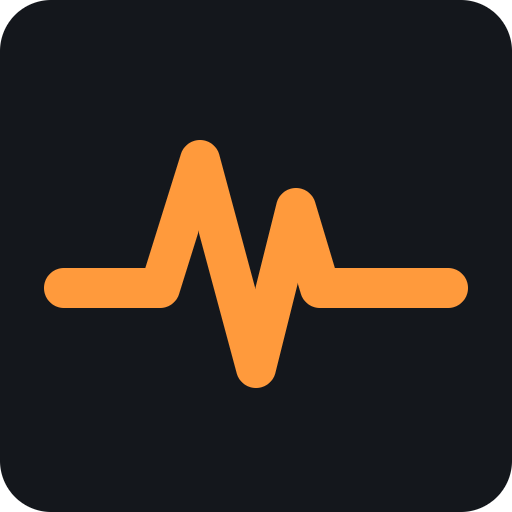
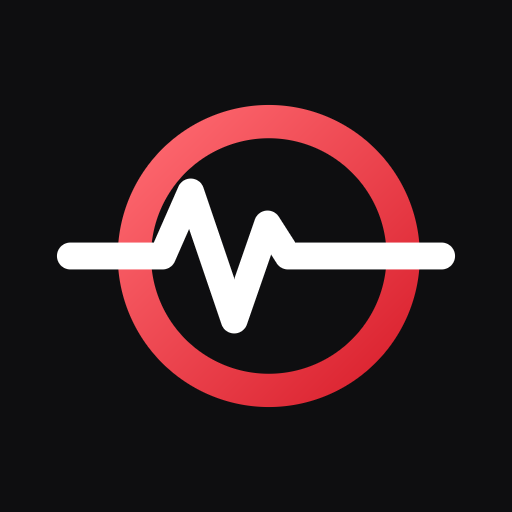
Brand colour: red on black instead of orange
Red brand token with white button text, blacker page and surfaces, red glow,
logo, favicon and PWA icons regenerated. CLAUDE.md design notes updated.

diff --git a/src/index.css b/src/index.css
@@ -2,23 +2,23 @@
 
 /*
  * NadiSense "instrument" design: deep ink background, layered graphite surfaces with a faint top
- * highlight, saffron brand, and colour that always means something:
- *   saffron = brand / primary action, green = live & trusted, red = screening flag only,
+ * highlight, red brand on black, and colour that always means something:
+ *   red = brand / primary action, green = live & trusted, filled red with a warning sign = screening flag,
  *   amber = hold still / change, cyan = SpO₂, coral = heart, violet = rhythm, gold = temperature.
  */
 :root {
-  --bg: #08090b;
-  --panel: #111317;
-  --panel-2: #171a1f;
-  --panel-3: #1d2127;
+  --bg: #050506;
+  --panel: #101113;
+  --panel-2: #16171a;
+  --panel-3: #1c1d21;
   --line: rgba(255, 255, 255, 0.07);
   --line-strong: rgba(255, 255, 255, 0.13);
   --fg: #eef0f3;
   --label: #9aa3b2;
   --muted: #6b7380;
-  --brand: #ff9a3c;
-  --brand-2: #ffb86b;
-  --brand-ink: #1a0f02;
+  --brand: #f23a45;
+  --brand-2: #ff6b72;
+  --brand-ink: #ffffff;
   --signal: #3ddc97;
   --hr: #ff5d6c;
   --spo2: #3ec6ff;
@@ -72,10 +72,9 @@ body {
   -webkit-font-smoothing: antialiased;
   -webkit-tap-highlight-color: transparent;
   min-height: 100dvh;
-  /* A faint warm glow at the top gives the page depth without decoration. */
+  /* A faint red glow at the top gives the page depth without decoration. */
   background-image:
-    radial-gradient(1200px 520px at 50% -220px, rgba(255, 154, 60, 0.09), transparent 70%),
-    radial-gradient(900px 400px at 100% 0, rgba(62, 198, 255, 0.04), transparent 70%);
+    radial-gradient(1200px 520px at 50% -220px, rgba(242, 58, 69, 0.08), transparent 70%);
   background-repeat: no-repeat;
 }
 
@@ -109,11 +108,11 @@ html:not([lang="en"]) [class*="tracking-"]:not(.keep-tracking) {
 }
 
 .btn-primary {
-  background: linear-gradient(180deg, var(--brand-2), var(--brand));
+  background: linear-gradient(180deg, #ec3541, #cf1f2c);
   color: var(--brand-ink);
   box-shadow:
-    inset 0 1px 0 rgba(255, 255, 255, 0.35),
-    0 6px 20px -8px rgba(255, 154, 60, 0.6);
+    inset 0 1px 0 rgba(255, 255, 255, 0.22),
+    0 6px 20px -8px rgba(226, 32, 46, 0.55);
 }
 .btn-primary:hover:not(:disabled) {
   filter: brightness(1.05);

diff --git a/src/components/Masthead.tsx b/src/components/Masthead.tsx
@@ -22,7 +22,7 @@ export function Masthead({ title, subtitle, active }: { title?: ReactNode; subti
     <header>
       <BrandBar />
       <div className="surface relative mt-2 overflow-hidden rounded-3xl">
-        <div aria-hidden className="pointer-events-none absolute inset-0 bg-[radial-gradient(420px_220px_at_50%_78%,rgba(255,154,60,0.22),transparent_70%)]" />
+        <div aria-hidden className="pointer-events-none absolute inset-0 bg-[radial-gradient(420px_220px_at_50%_78%,rgba(242,58,69,0.20),transparent_70%)]" />
         <div aria-hidden className="pointer-events-none absolute inset-x-0 top-0 h-px bg-gradient-to-r from-transparent via-brand/50 to-transparent" />
         <div className="relative px-6 pt-6">
           <h1 className="text-[26px] leading-[1.15] font-semibold tracking-[-0.02em] text-balance">{title ?? t('app.tagline')}</h1>

diff --git a/src/components/Logo.tsx b/src/components/Logo.tsx
@@ -7,11 +7,11 @@ export function LogoMark({ className = 'size-8' }: { className?: string }) {
     <svg aria-hidden viewBox="0 0 40 40" className={className}>
       <defs>
         <linearGradient id="nadi-mark" x1="0" y1="0" x2="1" y2="1">
-          <stop offset="0" stopColor="#ffc27a" />
-          <stop offset="1" stopColor="#ff8a2a" />
+          <stop offset="0" stopColor="#ff6b72" />
+          <stop offset="1" stopColor="#d91f2c" />
         </linearGradient>
       </defs>
-      <rect width="40" height="40" rx="11" fill="#14171c" />
+      <rect width="40" height="40" rx="11" fill="#0e0e10" />
       <rect x="0.5" y="0.5" width="39" height="39" rx="10.5" fill="none" stroke="rgba(255,255,255,0.08)" />
       <circle cx="21" cy="20" r="10.5" fill="none" stroke="url(#nadi-mark)" strokeWidth="2.6" />
       <path

diff --git a/src/App.tsx b/src/App.tsx
@@ -201,13 +201,13 @@ const TAB_ICON: Record<string, (p: { className?: string }) => ReactNode> = {
   '/settings': GearIcon,
 };
 
-/** Phone navigation: standard bottom bar; the active tab is saffron. */
+/** Phone navigation: standard bottom bar; the active tab is red. */
 function TabBar({ route }: { route: Route }) {
   const { t } = useI18n();
   return (
     <nav
       aria-label={t('nav.main')}
-      className="fixed inset-x-0 bottom-0 z-20 border-t border-line bg-[#0d0f12]/95 pb-[env(safe-area-inset-bottom)] backdrop-blur-xl lg:hidden"
+      className="fixed inset-x-0 bottom-0 z-20 border-t border-line bg-[#0a0a0b]/95 pb-[env(safe-area-inset-bottom)] backdrop-blur-xl lg:hidden"
     >
       <ul className="mx-auto flex max-w-xl">
         {NAV.map(({ route: r, label }) => {

diff --git a/src/screens/Dashboard.tsx b/src/screens/Dashboard.tsx
@@ -248,7 +248,7 @@ function Dial({ hr, beat, dim }: { hr: number | null; beat: number; dim: boolean
       <svg viewBox={`0 0 ${size} ${size}`} className="absolute inset-0 size-full" aria-hidden>
         <defs>
           <linearGradient id="dial-lit" x1="0" y1="1" x2="1" y2="0">
-            <stop offset="0" stopColor="#ff9a5c" />
+            <stop offset="0" stopColor="#ff8a7a" />
             <stop offset="1" stopColor="#ff4d6d" />
           </linearGradient>
           <radialGradient id="dial-face">

diff --git a/index.html b/index.html
@@ -3,7 +3,7 @@
   <head>
     <meta charset="UTF-8" />
     <meta name="viewport" content="width=device-width, initial-scale=1, viewport-fit=cover" />
-    <meta name="theme-color" content="#08090b" />
+    <meta name="theme-color" content="#050506" />
     <meta name="description" content="NadiSense companion app: continuous pulse screening from the NadiSense ring." />
     <link rel="icon" type="image/svg+xml" href="/favicon.svg" />
     <link rel="apple-touch-icon" href="/apple-touch-icon.png" />

diff --git a/vite.config.ts b/vite.config.ts
@@ -22,8 +22,8 @@ export default defineConfig({
         scope: '/',
         display: 'standalone',
         orientation: 'portrait',
-        background_color: '#08090b',
-        theme_color: '#08090b',
+        background_color: '#050506',
+        theme_color: '#050506',
         categories: ['health', 'medical'],
         icons: [
           { src: 'pwa-192.png', sizes: '192x192', type: 'image/png' },

diff --git a/src/lib/chartColors.ts b/src/lib/chartColors.ts
@@ -12,5 +12,5 @@ export const CHART = {
   rhythm: '#a78bfa',
   spo2: '#3ec6ff',
   hr: '#ff5d6c',
-  brand: '#ff9a3c',
+  brand: '#f23a45',
 } as const;

diff --git a/CLAUDE.md b/CLAUDE.md
@@ -77,15 +77,15 @@ src/cloud/         optional Firestore backup + doctor links
   CSV export (samples and accuracy table) through the share sheet.
 
 ## Design direction (premium medical instrument, dark)
-- Dark only. Tokens in `src/index.css`: ink page `#08090b` with a faint warm glow at the top;
-  raised graphite surfaces (`.surface`: `#111317`, hairline `rgba(255,255,255,.07)`, top highlight,
+- Dark only. Tokens in `src/index.css`: black page `#050506` with a faint red glow at the top;
+  raised graphite surfaces (`.surface`: `#101113`, hairline `rgba(255,255,255,.07)`, top highlight,
   soft depth) with `rounded-2xl` cards and `rounded-3xl` heroes. Text `#eef0f3` / `#9aa3b2` / `#6b7380`.
-- Colour means something: saffron `#ff9a3c` (`brand`) = brand and primary action (`.btn-primary`,
-  active tab, selection); green `#3ddc97` (`signal`) = live / trusted; red `#ff4d5e` (`alert`) =
+- Colour means something: red `#f23a45` (`brand`, white text on buttons) = brand and primary action (`.btn-primary`,
+  active tab, selection); green `#3ddc97` (`signal`) = live / trusted; brighter red `#ff4d5e` (`alert`) =
   screening flags only (filled `<Tag tone="alert">` with ⚠); amber = hold still; coral heart,
   cyan SpO₂, gold temperature, violet rhythm.
-- Type: IBM Plex Sans (+ Plex Sans Devanagari, Noto for other scripts); IBM Plex Mono for the small
-  uppercase `.label`s, units and timestamps. Big figures are semibold with tabular numerals.
+- Type: IBM Plex Sans (+ Plex Sans Devanagari, Noto for other scripts). Small `.label`s are plain
+  sentence case; IBM Plex Mono only for raw data. Big figures are semibold with tabular numerals.
 - Brand: `components/Logo.tsx` (ring + pulse mark, "Nadi**Sense**" wordmark). No emoji, no generic
   stock icons; line icons in `components/icons.tsx`.
 - Pulse (`Dashboard.tsx`): hero card with status pill, the heart-rate dial (ticks lit to the HR,
@@ -95,7 +95,7 @@ src/cloud/         optional Firestore backup + doctor links
 - Sign-in and pairing: wordmark bar, then a hero card (large headline, ring on a lit stage, the
   four v1 measurements as chips).
 - Shell: sticky blurred header (wordmark, text tabs on desktop, link/battery pill, clock);
-  floating rounded tab bar on phones with a saffron active pill. Secondary screens have a large
+  standard bottom tab bar on phones, active tab in brand red. Secondary screens have a large
   page title and sit in a max-w-3xl column. Motion is subtle and off under prefers-reduced-motion.
 
 ## Working rules for Claude Code
